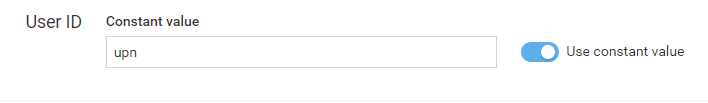
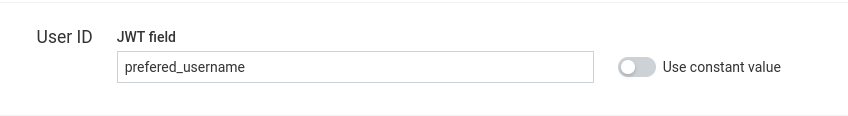
MTM-46693
Update user ID screenshot.
Added small description

Changed region(s): [[0.1243, 0.4078, 0.9633, 0.6699], [0.0311, 0.1456, 0.7147, 0.3786], [0.1243, 0.699, 0.7147, 0.7282]]

diff --git a/content/users-guide/administration-bundle/changing-settings.md b/content/users-guide/administration-bundle/changing-settings.md
@@ -275,8 +275,6 @@ The **Basic** section of the **Single sign-on** page consists of the following c
 |Provider name|Name of the provider
 |Visible on Login page|Indicates whether the login option is enabled or not.
 |Audience|Expected aud parameter of JWT
-|Group|(Deprecated in favor of dynamic access mapping since 9.20)The initial group assigned to the user on first login
-|Applications|(Deprecated in favor of dynamic access mapping since 9.20)The initial applications assigned to the user on first login
 
 Each time a user logs in, the content of the access token is verified and is a base for user access to the {{< product-c8y-iot >}} platform. The following section provides the mapping between JWT claims and access to the platform.
 
@@ -331,8 +329,9 @@ By default, dynamic access mapping assigns user roles, based on the access token
 When selected, dynamic access mapping will be used only when a new user logs in to fill in the initial roles. When a user already exists in {{< product-c8y-iot >}}, the roles will not be overridden nor updated. Selecting this option also enables admins to edit roles of SSO users in the user management. For details, refer to  [Administration > Managing permissions](/users-guide/administration/#attach-global) in the *User guide*.
 
 When a user logs in with an access token, the username can be derived from a JWT claim. The claim name can be configured in the **User ID configuration** window.
-
- ![OAuth configuration](/images/users-guide/Administration/admin-sso-3.png)
+The user ID can be set to any field of the authorization token sent to the platform. We recommend you to inspect the authorization token in the audit logs to make sure the correct field is used (see [Troubleshooting](#troubleshooting)).
+ 
+![OAuth configuration](/images/users-guide/Administration/admin-sso-3.png)
 
  If the **Use constant value** checkbox is selected, a constant user ID is used for all users who log in to the {{< product-c8y-iot >}} platform via SSO. This means that all users who log in via SSO share the same user account in the {{< product-c8y-iot >}} platform. Usage of this option is not recommended.
 
@@ -358,7 +357,7 @@ Each access token is signed by a signing certificate. Currently there are three 
 
  ![OAuth configuration](/images/users-guide/Administration/admin-sso-5.png)
 
-4. By specifying the JWKS (JSON Web Key Set) address.
+4. By specifying the JWKS (JSON Web Key Set) address. JWKS is a set of cryptographic keys containing public keys used to verify tokens issued by the authorization server.
 
  ![OAuth configuration](/images/users-guide/Administration/admin-sso-9.png)
 
